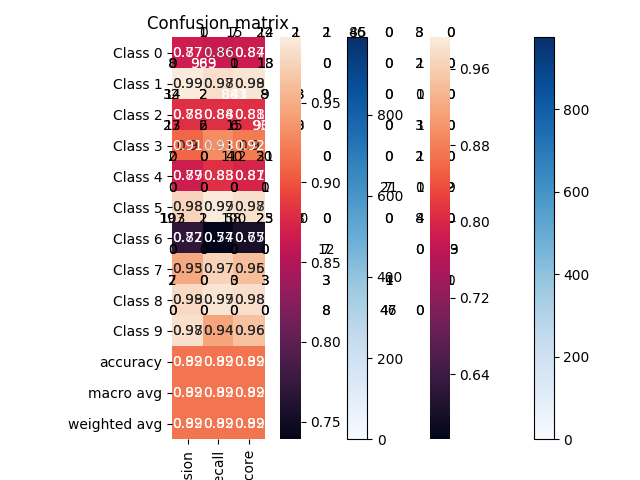
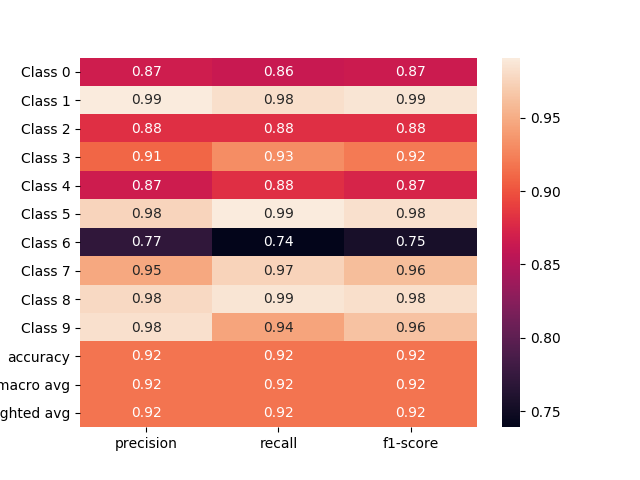
Final draft

diff --git a/CNN/model_test.py b/CNN/model_test.py
@@ -4,6 +4,8 @@ os.environ['TF_CPP_MIN_LOG_LEVEL'] = '2'
 import tensorflow as tf
 from CNN.model_parameters import *
 
+# Uncomment for generating plots. Requires some libraries (see below)
+"""
 import seaborn as sns
 import pandas as pd
 import matplotlib.pyplot as plt
@@ -11,37 +13,48 @@ import matplotlib.pyplot as plt
 from sklearn.metrics import confusion_matrix
 from sklearn.metrics import classification_report
 from analytics.plot_confusion_matrix import plot_confusion_matrix
+from tensorflow.keras.utils import plot_model
+"""
 
 
 def CNN_model_test(X_test, Y_test, network):
     output_file = open('convolution-neural-net.txt', 'w')
 
+    # Check if model exists at 'model' directory
     try:
         model = tf.keras.models.load_model('./model/CNN.h5')
     except:
         print("Trained model does not exist. Please train the model.\n")
         exit()
 
+    # Obtain the predicted classes
     loss, accuracy = model.evaluate(x=X_test, y=Y_test)
     Y_pred = model.predict_classes(X_test)
 
+    # Write output to file
     output_file.write("Loss on Test Data : {}\n".format(loss))
     output_file.write("Accuracy on Test Data : {}\n".format(accuracy))
     output_file.write("gt_label,pred_label\n")
+
     for idx in range(len(Y_test)):
         output_file.write("{},{}\n".format(Y_test[idx], Y_pred[idx]))
 
     output_file.close()
 
+    # Uncomment for generating plots.
+    """
     confusion_mtx = confusion_matrix(Y_test, Y_pred)
     plot_confusion_matrix(confusion_mtx, network, classes=range(10))
 
     target_names = ["Class {}".format(i) for i in range(CATEGORIES)]
     classification_rep = classification_report(Y_test, Y_pred, target_names=target_names, output_dict=True)
 
+    plt.figure()
     sns.heatmap(pd.DataFrame(classification_rep).iloc[:-1, :].T, annot=True)
     plt.savefig('./results/' + network + '_classification_report.png')
     #plt.show()
+    plot_model(model, to_file='./results/CNN_model_plot.png', show_shapes=True, show_layer_names=True)
+    """
 
 
 if __name__ == "__main__":

diff --git a/MLNN/model_test.py b/MLNN/model_test.py
@@ -4,6 +4,8 @@ os.environ['TF_CPP_MIN_LOG_LEVEL'] = '2'
 import tensorflow as tf
 from MLNN.model_parameters import *
 
+# Uncomment for generating plots. Requires some libraries (see below)
+"""
 import seaborn as sns
 import pandas as pd
 import matplotlib.pyplot as plt
@@ -11,37 +13,48 @@ import matplotlib.pyplot as plt
 from sklearn.metrics import confusion_matrix
 from sklearn.metrics import classification_report
 from analytics.plot_confusion_matrix import plot_confusion_matrix
+from tensorflow.keras.utils import plot_model
+"""
 
 
 def MLNN_model_test(X_test, Y_test, network):
     output_file = open('multi-layer-net.txt', 'w')
 
+    # Check if model exists at 'model' directory
     try:
         model = tf.keras.models.load_model('./model/MLNN.h5')
     except:
         print("Trained model does not exist. Please train the model.\n")
         exit()
 
+    # Obtain the predicted classes
     loss, accuracy = model.evaluate(x=X_test, y=Y_test)
     Y_pred = model.predict_classes(X_test)
 
+    # Write output to file
     output_file.write("Loss on Test Data : {}\n".format(loss))
     output_file.write("Accuracy on Test Data : {}\n".format(accuracy))
     output_file.write("gt_label,pred_label\n")
+
     for idx in range(len(Y_test)):
         output_file.write("{},{}\n".format(Y_test[idx], Y_pred[idx]))
 
     output_file.close()
 
+    # Uncomment for generating plots.
+    """
     confusion_mtx = confusion_matrix(Y_test, Y_pred)
     plot_confusion_matrix(confusion_mtx, network, classes=range(10))
 
     target_names = ["Class {}".format(i) for i in range(CATEGORIES)]
     classification_rep = classification_report(Y_test, Y_pred, target_names=target_names, output_dict=True)
 
+    plt.figure()
     sns.heatmap(pd.DataFrame(classification_rep).iloc[:-1, :].T, annot=True)
     plt.savefig('./results/' + network + '_classification_report.png')
     #plt.show()
+    plot_model(model, to_file='./results/MLNN_model_plot.png', show_shapes=True, show_layer_names=True)
+    """
 
 
 if __name__ == "__main__":

diff --git a/MLNN/model_train.py b/MLNN/model_train.py
@@ -13,27 +13,34 @@ from analytics.plot import plot
 def MLNN_model_train(X_train, Y_train):
     INPUT_SHAPE = X_train.shape[1:]
 
+    # Image data augmentation
     datagen = ImageDataGenerator(zoom_range=0.01, width_shift_range=0.025, height_shift_range=0.025, shear_range=0.01,\
                                  validation_split=VALIDATION_SPLIT, fill_mode='nearest')
     datagen.fit(X_train)
 
     model = create_model(INPUT_SHAPE)
 
+    # Generate augmented data on the fly
     train_data_generated = datagen.flow(x=X_train, y=Y_train, batch_size=BATCH_SIZE, subset='training')
     validation_data_generated = datagen.flow(x=X_train, y=Y_train, batch_size=BATCH_SIZE, subset='validation')
     STEPS_EPOCH = len(X_train) * (1 - VALIDATION_SPLIT) // BATCH_SIZE
     STEPS_VALIDATION = int(STEPS_EPOCH * VALIDATION_SPLIT)
 
+    # Set the optimiser values
     optimizer = RMSprop(lr=0.002, rho=0.9, epsilon=1e-08, decay=0.0)
     learning_rate_reduction = ReduceLROnPlateau(monitor='val_accuracy', patience=3, verbose=1, factor=0.5,
                                                 min_lr=0.00001)
 
+    # Train the model
     model.compile(loss='sparse_categorical_crossentropy', optimizer=optimizer, metrics=['accuracy'])
     history = model.fit(train_data_generated, steps_per_epoch=STEPS_EPOCH, epochs=TRAINING_EPOCHS, \
                         validation_data=validation_data_generated, validation_steps=STEPS_VALIDATION, \
                         callbacks=[learning_rate_reduction])
 
+    # Uncomment for generating plots.
+    """
     plot(history, "MLNN")
+    """
 
     # Try to create model directory
     try:

diff --git a/CNN/model_train.py b/CNN/model_train.py
@@ -12,26 +12,33 @@ from analytics.plot import plot
 def CNN_model_train(X_train, Y_train):
     INPUT_SHAPE = X_train.shape[1:]
 
+    # Image data augmentation
     datagen = ImageDataGenerator(zoom_range=0.01, width_shift_range=0.025, height_shift_range=0.025, shear_range=0.01,\
                                  validation_split=VALIDATION_SPLIT, fill_mode='nearest')
     datagen.fit(X_train)
 
     model = create_model(INPUT_SHAPE)
 
+    # Generate augmented data on the fly
     train_data_generated = datagen.flow(x=X_train, y=Y_train, batch_size=BATCH_SIZE, subset='training')
     validation_data_generated = datagen.flow(x=X_train, y=Y_train, batch_size=BATCH_SIZE, subset='validation')
     STEPS_EPOCH = len(X_train)*(1-VALIDATION_SPLIT)//BATCH_SIZE
     STEPS_VALIDATION = int(STEPS_EPOCH*VALIDATION_SPLIT)
 
+    # Set the optimiser values
     optimizer = RMSprop(lr=0.002, rho=0.9, epsilon=1e-08, decay=0.0)
     learning_rate_reduction = ReduceLROnPlateau(monitor='val_accuracy', patience=3, verbose=1, factor=0.5, min_lr=0.00001)
 
+    # Train the model
     model.compile(loss='sparse_categorical_crossentropy', optimizer=optimizer, metrics=['accuracy'])
     history = model.fit(train_data_generated, steps_per_epoch=STEPS_EPOCH, epochs=TRAINING_EPOCHS,\
                         validation_data=validation_data_generated, validation_steps=STEPS_VALIDATION,\
                         callbacks=[learning_rate_reduction])
 
+    # Uncomment for generating plots.
+    """
     plot(history, "CNN")
+    """
 
     # Try to create model directory
     try:

diff --git a/MLNN/create_model.py b/MLNN/create_model.py
@@ -5,11 +5,11 @@ from tensorflow.keras.initializers import glorot_normal
 
 from MLNN.model_parameters import *
 
+# Define the model and its structure
 def create_model(INPUT_SHAPE):
     model = Sequential()
 
     model.add(Flatten(input_shape=INPUT_SHAPE))
-    #model.add(BatchNormalization(axis=1))
 
     model.add(Dense(NUM_HIDDEN_1, kernel_initializer=glorot_normal()))
     model.add(LeakyReLU(alpha=ALPHA))
@@ -18,7 +18,6 @@ def create_model(INPUT_SHAPE):
     model.add(Dense(NUM_HIDDEN_2, kernel_initializer=glorot_normal()))
     model.add(LeakyReLU(alpha=ALPHA))
     model.add(Dropout(DROPOUT))
-
     model.add(Dense(CATEGORIES, activation='softmax'))
 
     model.summary()

diff --git a/CNN/create_model.py b/CNN/create_model.py
@@ -5,6 +5,7 @@ from tensorflow.keras.initializers import glorot_normal
 
 from CNN.model_parameters import *
 
+# Define the model and its structure
 def create_model(INPUT_SHAPE):
     model = Sequential()
 
@@ -28,7 +29,6 @@ def create_model(INPUT_SHAPE):
 
     model.add(Flatten())
     model.add(Dense(NUM_DENSE_1, activation='relu'))
-    #model.add(BatchNormalization(axis=1))
     model.add(Dropout(DROPOUT))
     model.add(Dense(NUM_DENSE_2, activation='relu'))
     model.add(Dense(CATEGORIES, activation='softmax'))
@@ -36,6 +36,7 @@ def create_model(INPUT_SHAPE):
     model.summary()
 
     return model
+
 
 if __name__ == "__main__":
     create_model()

diff --git a/analytics/plot_confusion_matrix.py b/analytics/plot_confusion_matrix.py
@@ -2,11 +2,10 @@ import numpy as np
 import matplotlib.pyplot as plt
 import itertools
 
+# Plots the confusion matrix using scikit-learns confusion matrix
+# This function snippet was obtained from stackoverflow and wsa modified
 def plot_confusion_matrix(cm, network, classes, normalize=False, title='Confusion matrix', cmap=plt.cm.Blues):
-    """
-    This function prints and plots the confusion matrix.
-    Normalization can be applied by setting `normalize=True`.
-    """
+    plt.figure()
     plt.imshow(cm, interpolation='nearest', cmap=cmap)
     plt.title(title)
     plt.colorbar()

diff --git a/MLNN/load_data.py b/MLNN/load_data.py
@@ -5,12 +5,15 @@ import tensorflow as tf
 
 from MLNN.model_parameters import *
 
+# Loads FashionMNIST data
 def MLNN_load_data():
     (X_train, Y_train), (X_test, Y_test) = tf.keras.datasets.fashion_mnist.load_data()
 
+    # Feature scaling to 1
     X_train = X_train.astype('float32')/255
     X_test = X_test.astype('float32')/255
 
+    # Converting to 4D tensors
     X_train = X_train.reshape(X_train.shape[0], PIXELS, PIXELS, 1)
     X_test = X_test.reshape(X_test.shape[0], PIXELS, PIXELS, 1)
 

diff --git a/CNN/load_data.py b/CNN/load_data.py
@@ -5,12 +5,15 @@ import tensorflow as tf
 
 from CNN.model_parameters import *
 
+# Loads FashionMNIST data
 def CNN_load_data():
     (X_train, Y_train), (X_test, Y_test) = tf.keras.datasets.fashion_mnist.load_data()
 
+    # Feature scaling to 1
     X_train = X_train.astype('float32')/255
     X_test = X_test.astype('float32')/255
 
+    # Converting to 4D tensors
     X_train = X_train.reshape(X_train.shape[0], PIXELS, PIXELS, 1)
     X_test = X_test.reshape(X_test.shape[0], PIXELS, PIXELS, 1)
 

diff --git a/analytics/plot.py b/analytics/plot.py
@@ -1,5 +1,6 @@
 import matplotlib.pyplot as plt
 
+# Plot training performance
 def plot(history, network):
     # Plot training & validation accuracy values
     plt.plot(history.history['accuracy'])

diff --git a/CNN/model_parameters.py b/CNN/model_parameters.py
@@ -1,3 +1,4 @@
+# Model hyperparameters
 PIXELS = 28
 
 NUM_FILTERS_1 = 32

diff --git a/MLNN/model_parameters.py b/MLNN/model_parameters.py
@@ -1,3 +1,4 @@
+# Model hyperparameters
 PIXELS = 28
 
 NUM_HIDDEN_1 = 512
